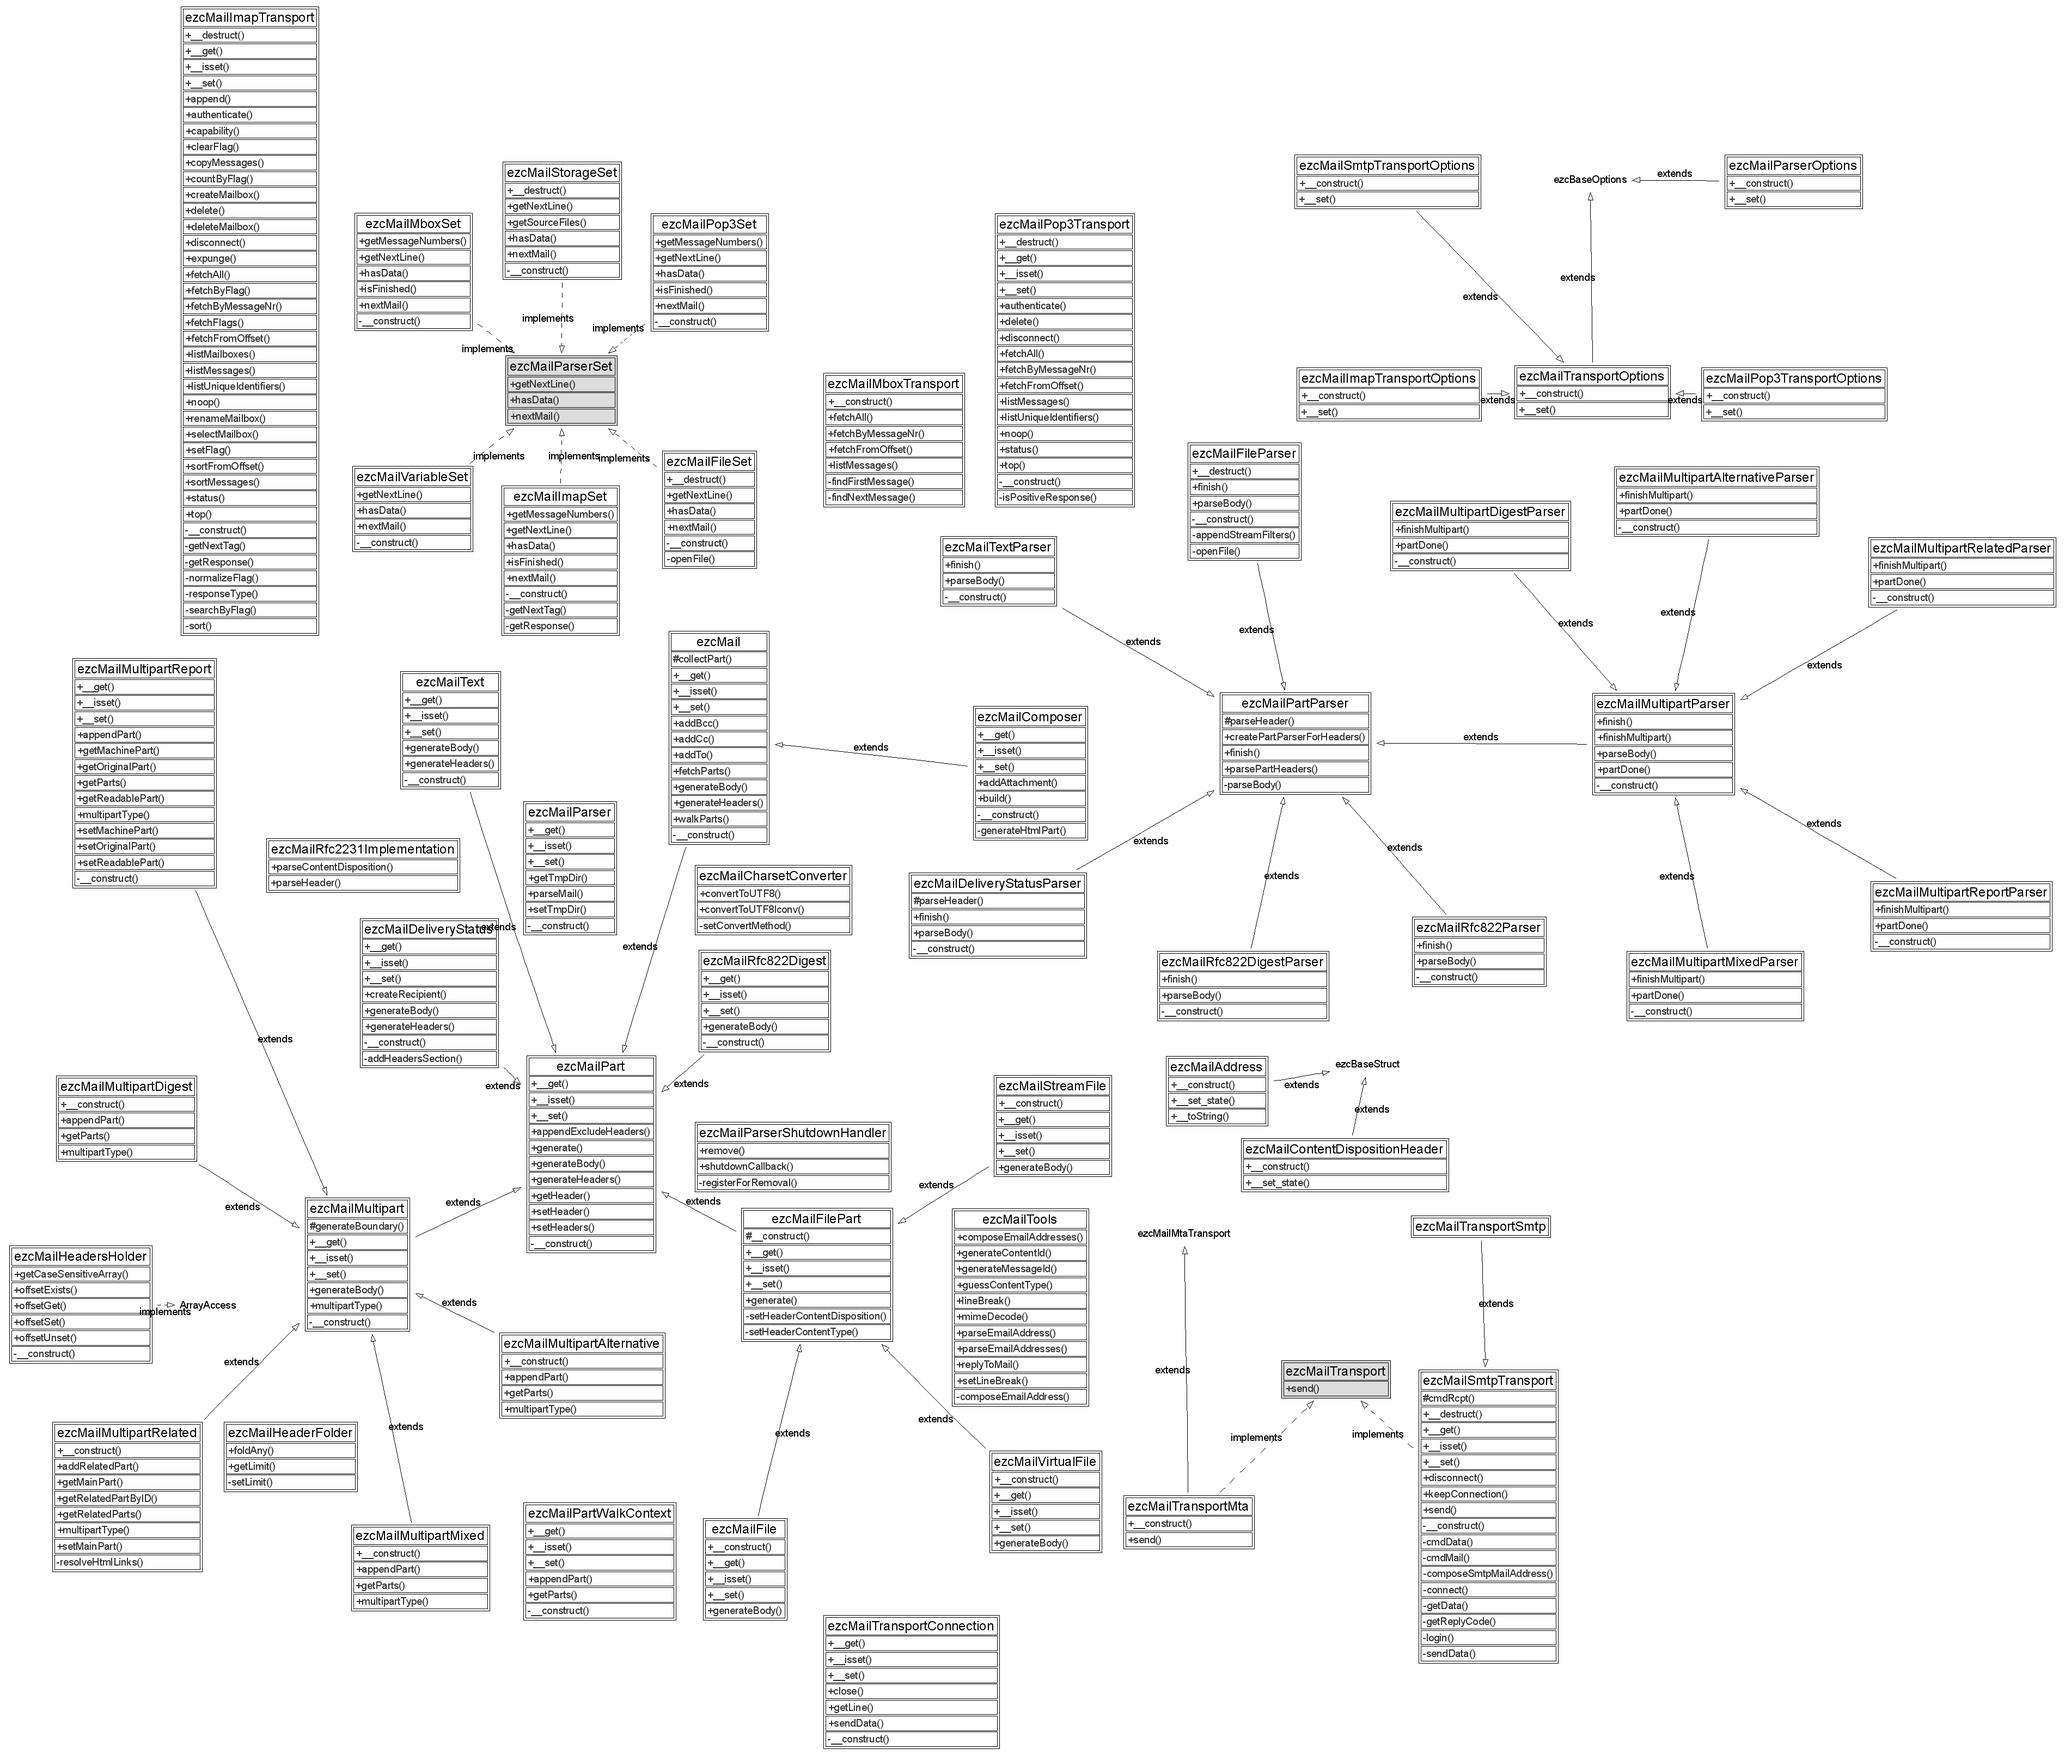
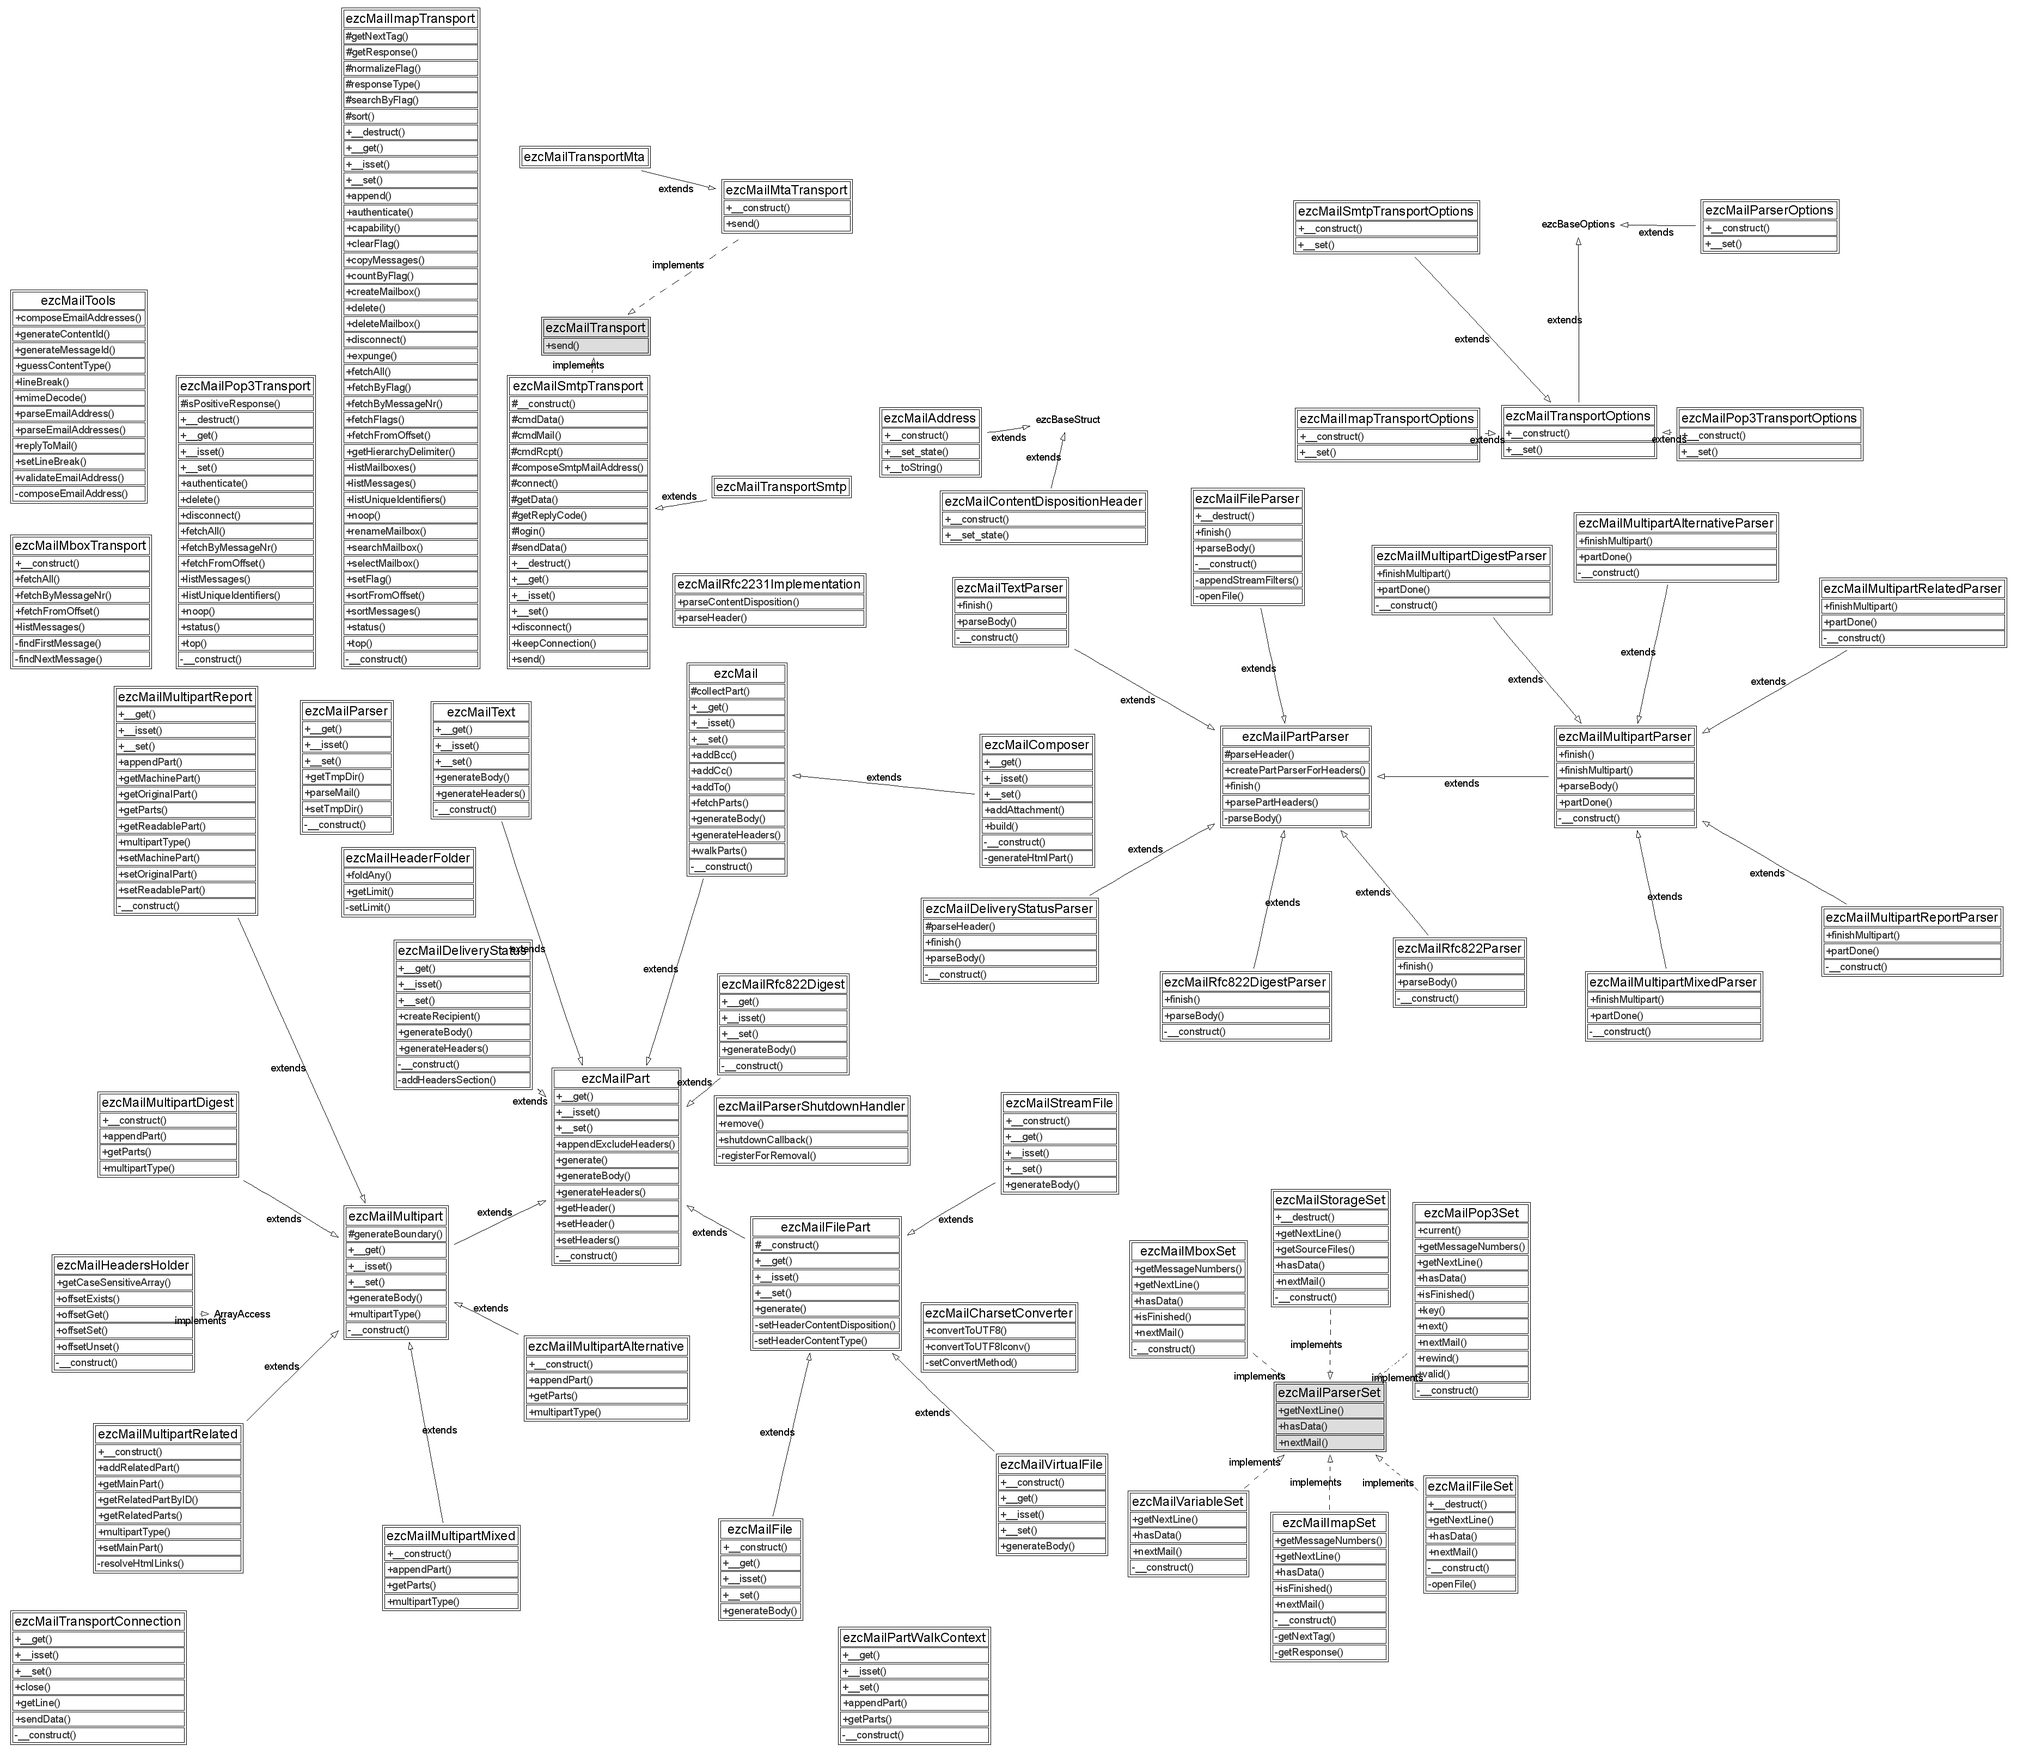
- Move options classes to more logical directories.
git-svn-id: http://svn.ez.no/svn/ezcomponents/trunk@5687 bc0e7bdc-f0fc-0310-8ff6-f601c06e1256

diff --git a/Mail/src/mail_autoload.php b/Mail/src/mail_autoload.php
@@ -26,7 +26,7 @@ return array(
     'ezcMailMultipartParser'            => 'Mail/parser/parts/multipart_parser.php',
     'ezcMailParserSet'                  => 'Mail/parser/interfaces/parser_set.php',
     'ezcMailSmtpTransport'              => 'Mail/transports/smtp/transport_smtp.php',
-    'ezcMailTransportOptions'           => 'Mail/options/transport_options.php',
+    'ezcMailTransportOptions'           => 'Mail/transports/transport_options.php',
     'ezcMailAddress'                    => 'Mail/structs/mail_address.php',
     'ezcMailCharsetConverter'           => 'Mail/internal/charset_convert.php',
     'ezcMailComposer'                   => 'Mail/composer.php',
@@ -40,7 +40,7 @@ return array(
     'ezcMailHeadersHolder'              => 'Mail/parser/headers_holder.php',
     'ezcMailImapSet'                    => 'Mail/transports/imap/imap_set.php',
     'ezcMailImapTransport'              => 'Mail/transports/imap/imap_transport.php',
-    'ezcMailImapTransportOptions'       => 'Mail/options/imap_options.php',
+    'ezcMailImapTransportOptions'       => 'Mail/transports/imap/imap_options.php',
     'ezcMailMboxSet'                    => 'Mail/transports/mbox/mbox_set.php',
     'ezcMailMboxTransport'              => 'Mail/transports/mbox/mbox_transport.php',
     'ezcMailMultipartAlternative'       => 'Mail/parts/multiparts/multipart_alternative.php',
@@ -54,17 +54,17 @@ return array(
     'ezcMailMultipartReport'            => 'Mail/parts/multiparts/multipart_report.php',
     'ezcMailMultipartReportParser'      => 'Mail/parser/parts/multipart_report_parser.php',
     'ezcMailParser'                     => 'Mail/parser/parser.php',
-    'ezcMailParserOptions'              => 'Mail/options/parser_options.php',
+    'ezcMailParserOptions'              => 'Mail/parser/parser_options.php',
     'ezcMailParserShutdownHandler'      => 'Mail/parser/shutdown_handler.php',
     'ezcMailPartWalkContext'            => 'Mail/structs/walk_context.php',
     'ezcMailPop3Set'                    => 'Mail/transports/pop3/pop3_set.php',
     'ezcMailPop3Transport'              => 'Mail/transports/pop3/pop3_transport.php',
-    'ezcMailPop3TransportOptions'       => 'Mail/options/pop3_options.php',
+    'ezcMailPop3TransportOptions'       => 'Mail/transports/pop3/pop3_options.php',
     'ezcMailRfc2231Implementation'      => 'Mail/parser/rfc2231_implementation.php',
     'ezcMailRfc822Digest'               => 'Mail/parts/rfc822_digest.php',
     'ezcMailRfc822DigestParser'         => 'Mail/parser/parts/rfc822_digest_parser.php',
     'ezcMailRfc822Parser'               => 'Mail/parser/parts/rfc822_parser.php',
-    'ezcMailSmtpTransportOptions'       => 'Mail/options/smtp_options.php',
+    'ezcMailSmtpTransportOptions'       => 'Mail/transports/smtp/smtp_options.php',
     'ezcMailStorageSet'                 => 'Mail/transports/storage/storage_set.php',
     'ezcMailStreamFile'                 => 'Mail/parts/fileparts/stream_file.php',
     'ezcMailText'                       => 'Mail/parts/text.php',
